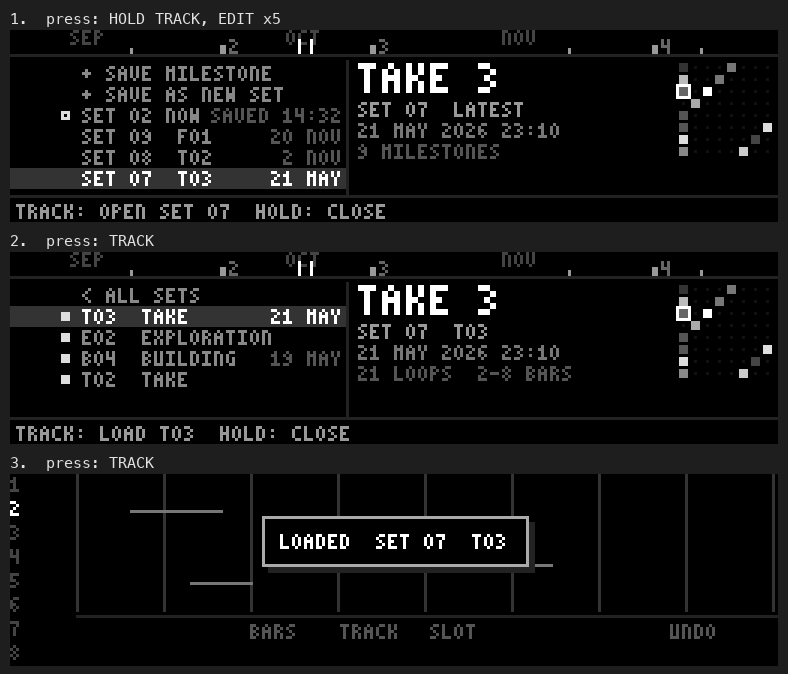
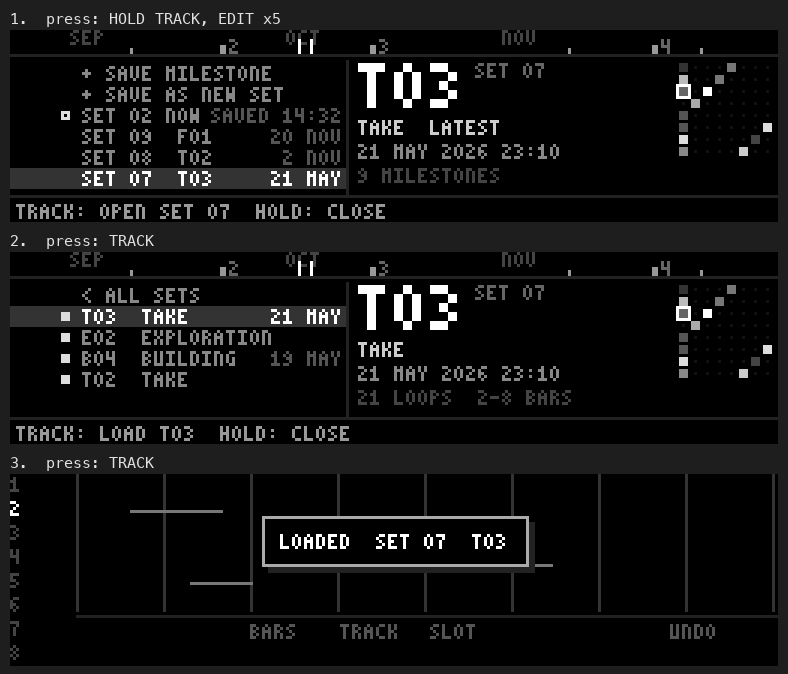
docs(plans): sets browser — a milestone's id leads the detail panel, stage beneath, date third
Owner 2026-11-09: the large stage word was too much; the id (T02) is largest with the set beside it,
the stage as subtitle and the date third. Walkthroughs 3, 4, 5 and 8 re-rendered; the generator is
kept beside the images (sets_mock.py <out dir>).

diff --git a/docs/Plans/images/sets_mock.py b/docs/Plans/images/sets_mock.py
@@ -1,0 +1,339 @@
+# Sets browser walkthroughs as button sequences: each walkthrough is a strip of 256x64 frames (the firmware's 3x5 font,
+# doubled for the large stage) with the button pressed between them.
+import sys
+from PIL import Image, ImageDraw, ImageFont
+
+W, H = 256, 64
+MICRO = {'-': 0x01C0, '+': 0x05D0, '/': 0x12A4, '0': 0x2B6A, '1': 0x2C97, '2': 0x62A7, '3': 0x628E, '4': 0x5BC9,
+         '5': 0x798E, '6': 0x39AA, '7': 0x7292, '8': 0x2AAA, '9': 0x2ACE, 'A': 0x2BED, 'B': 0x6BAE, 'C': 0x3923,
+         'D': 0x6B6E, 'E': 0x79A7, 'F': 0x79A4, 'G': 0x396B, 'H': 0x5BED, 'I': 0x7497, 'J': 0x126A, 'K': 0x5BAD,
+         'L': 0x4927, 'M': 0x5F6D, 'N': 0x6B6D, 'O': 0x2B6A, 'P': 0x6BA4, 'Q': 0x2B6B, 'R': 0x6BAD, 'S': 0x388E,
+         'T': 0x7492, 'U': 0x5B6F, 'V': 0x5B6A, 'W': 0x5BFD, 'X': 0x5AAD, 'Y': 0x5A92, 'Z': 0x72A7,
+         ':': 0x0410, '.': 0x0002, '!': 0x2482, '<': 0x1511, '>': 0x4454, '^': 0x2A80}
+OUT = sys.argv[1]
+STAGES = ['SKETCH', 'BUILDING', 'EXPLORATION', 'TAKE', 'ARRANGEMENT', 'FINAL']
+
+
+class Fb:
+    def __init__(self):
+        self.p = [[0] * W for _ in range(H)]
+
+    def px(self, x, y, v):
+        if 0 <= x < W and 0 <= y < H:
+            self.p[y][x] = v
+
+    def rect(self, x0, y0, x1, y1, v):
+        for y in range(y0, y1 + 1):
+            for x in range(x0, x1 + 1):
+                self.px(x, y, v)
+
+    def frame(self, x0, y0, x1, y1, v):
+        for x in range(x0, x1 + 1):
+            self.px(x, y0, v), self.px(x, y1, v)
+        for y in range(y0, y1 + 1):
+            self.px(x0, y, v), self.px(x1, y, v)
+
+    def hline(self, x0, x1, y, v):
+        for x in range(x0, x1 + 1):
+            self.px(x, y, v)
+
+    def vline(self, x, y0, y1, v):
+        for y in range(y0, y1 + 1):
+            self.px(x, y, v)
+
+    def text(self, s, x, y, v, k=1):
+        for c in s:
+            b = MICRO.get(c, 0)
+            for i in range(15):
+                if b & (1 << (14 - i)):
+                    self.rect(x + (i % 3) * k, y + (i // 3) * k, x + (i % 3) * k + k - 1, y + (i // 3) * k + k - 1, v)
+            x += 4 * k
+        return x
+
+    def rtext(self, s, xr, y, v):
+        self.text(s, xr - len(s) * 4 + 2, y, v)
+
+    def dot(self, x, y, v, ring=False):
+        for dy in (-1, 0, 1):
+            for dx in (-1, 0, 1):
+                if not ring or (dx, dy) != (0, 0):
+                    self.px(x + dx, y + dy, v)
+
+    def image(self):
+        img = Image.new('L', (W, H))
+        img.putdata([v * 17 for row in self.p for v in row])
+        return img
+
+
+def strip(f, sel_x=None):
+    for label, x in [('SEP', 20), ('OCT', 92), ('NOV', 164)]:
+        f.text(label, x, 0, 4)
+    f.hline(0, W - 1, 8, 2)
+    for x, n in [(40, 1), (70, 2), (120, 3), (186, 1), (214, 4), (230, 1)]:
+        if n == 1:
+            f.vline(x, 6, 7, 9)
+        else:
+            f.rect(x, 5, x + 1, 7, 9)
+            f.text(str(n), x + 3, 3, 6)
+    if sel_x is not None:
+        f.vline(sel_x - 2, 3, 7, 15)
+        f.vline(sel_x + 2, 3, 7, 15)
+
+
+def mosaic(f, seed, n, playing):
+    x0, y0 = 223, 11
+    cells = {}
+    for i in range(n):
+        cells[((i * 3 + seed) % 8, (i * 5 + seed * 2) % 8 if i % 3 else 0)] = 3 + (seed * 5 + i * 7) % 13
+    for t in range(8):
+        for s in range(8):
+            v = cells.get((t, s), 0)
+            x, y = x0 + s * 4, y0 + t * 4
+            if v:
+                f.rect(x, y, x + 2, y + 2, v)
+            else:
+                f.px(x + 1, y + 1, 1)
+    t, s = playing
+    f.frame(x0 + s * 4 - 1, y0 + t * 4 - 1, x0 + s * 4 + 3, y0 + t * 4 + 3, 15)
+
+
+def listing(rows, sel, big, lines, hint, sel_x=None, mos=None, lanes=None):
+    """rows: (text, note, mark) with mark None / 'v' / 'c' / ('v', lane) …; the selected row inverted."""
+    f = Fb()
+    strip(f, sel_x)
+    f.vline(112, 10, 54, 2)
+    f.hline(0, W - 1, 55, 2)
+    if lanes:
+        lanes(f)
+    for i, (txt, note, mark) in enumerate(rows[:6]):  # six rows show; the list scrolls with the selection
+        y = 12 + i * 7
+        if i == sel:
+            f.rect(0, y - 1, 111, y + 5, 3)
+        if mark:
+            kind, lane = mark if isinstance(mark, tuple) else (mark, 18)
+            f.dot(lane, y + 2, 13, ring=(kind == 'c'))
+        f.text(txt, 24, y, 15 if i == sel else 8)
+        if note:
+            f.rtext(note, 109, y, 15 if i == sel else 5)
+    if isinstance(big, tuple):  # a milestone: its id largest, the stage as subtitle, the date third (owner 2026-11-09)
+        mid, stage, where, date, info = big
+        x = f.text(mid, 116, 11, 15, 3)
+        f.text(where, x + 3, 11, 6)
+        f.text(stage, 116, 30, 12)
+        f.text(date, 116, 38, 8)
+        f.text(info, 116, 46, 4)
+    else:
+        f.text(big, 116, 11, 15, 2)
+        for k, (s, v) in enumerate(lines):
+            f.text(s, 116, 24 + k * 7, v)
+    if mos:
+        mosaic(f, *mos)
+    f.text(hint, 2, 58, 9)
+    return f.image()
+
+
+def popup(title, highlight, suggested):
+    f = Fb()
+    x0, y0, x1, y1 = 60, 1, 196, 56
+    f.rect(x0 + 3, y0 + 3, x1 + 3, y1 + 3, 2)
+    f.frame(x0, y0, x1, y1, 10)
+    for y in range(y0 + 2, y0 + 9, 2):
+        f.hline(x0 + 1, x1 - 1, y, 5)
+    f.hline(x0, x1, y0 + 9, 10)
+    f.rect(92, y0 + 1, 164, y0 + 8, 0)
+    f.text(title, 95, y0 + 2, 13)
+    for i, lab in enumerate(STAGES):
+        y = y0 + 13 + i * 7
+        if lab == highlight:
+            f.rect(x0 + 2, y - 1, x1 - 2, y + 5, 13)
+        f.text(lab, x0 + 8, y, 0 if lab == highlight else 7)
+        if lab == suggested:
+            f.text('SUGGESTED', x1 - 40, y, 0 if lab == highlight else 5)
+    f.hline(0, W - 1, 59 - 2, 0)
+    f.text('REC/EDIT STAGE  TRACK SAVE  HOLD CANCEL', 2, 58, 9)
+    return f.image()
+
+
+def performance(toast):
+    """The performance screen (sketched: tracks, roll grid, status band) with the confirmation box."""
+    f = Fb()
+    for t in range(8):
+        f.text(str(t + 1), 0, t * 8 + 1, 15 if t == 1 else 4)
+    for x in range(22, 256, 29):
+        f.vline(x, 0, 45, 3)
+    for x0, y, w in [(40, 12, 30), (90, 20, 16), (140, 30, 40), (60, 36, 20)]:
+        f.hline(x0, x0 + w, y, 7)
+    f.hline(22, 255, 47, 2)
+    f.text('BARS', 80, 50, 5), f.text('TRACK', 110, 50, 5), f.text('SLOT', 140, 50, 5), f.text('UNDO', 220, 50, 5)
+    if not toast:
+        return f.image()
+    tw = len(toast) * 4 + 12
+    x0 = (W - tw) // 2
+    f.rect(x0 + 2, 16, x0 + tw + 2, 32, 2)
+    f.rect(x0, 14, x0 + tw, 30, 0)
+    f.frame(x0, 14, x0 + tw, 30, 10)
+    f.text(toast, x0 + 6, 20, 15)
+    return f.image()
+
+
+def sequence(name, steps):
+    """steps: [(buttons pressed to reach this frame or None, frame)] -> one image, frames stacked with their buttons."""
+    scale, cap = 3, 22
+    fw, fh = W * scale, H * scale
+    img = Image.new('L', (fw + 20, len(steps) * (fh + cap + 8) + 8), 30)
+    d = ImageDraw.Draw(img)
+    try:
+        font = ImageFont.truetype('/System/Library/Fonts/Menlo.ttc', 15)
+    except OSError:
+        font = ImageFont.load_default()
+    y = 8
+    for i, (button, frame) in enumerate(steps):
+        d.text((10, y + 2), f'{i + 1}.  ' + (f'press: {button}' if button else 'start'), fill=225, font=font)
+        img.paste(frame.resize((fw, fh), Image.NEAREST), (10, y + cap))
+        y += fh + cap + 8
+    img.save(f'{OUT}/{name}.png')
+
+
+def box(rows, title, hi, sug=None, hint='', note_right=None):
+    """A GEM popup: rows of (text, right text); `hi` highlighted, `sug` marked SUGGESTED."""
+    f = Fb()
+    x0, y0, x1, y1 = 56, 1, 200, 56
+    f.rect(x0 + 3, y0 + 3, x1 + 3, y1 + 3, 2)
+    f.frame(x0, y0, x1, y1, 10)
+    for y in range(y0 + 2, y0 + 9, 2):
+        f.hline(x0 + 1, x1 - 1, y, 5)
+    f.hline(x0, x1, y0 + 9, 10)
+    tw = len(title) * 4 + 6
+    tx = (x0 + x1 - tw) // 2
+    f.rect(tx, y0 + 1, tx + tw, y0 + 8, 0)
+    f.text(title, tx + 3, y0 + 2, 13)
+    for i, (txt, right) in enumerate(rows):
+        y = y0 + 13 + i * 7
+        on = i == hi
+        if on:
+            f.rect(x0 + 2, y - 1, x1 - 2, y + 5, 13)
+        f.text(txt, x0 + 6, y, 0 if on else 7)
+        if right:
+            f.text(right, x0 + 58, y, 0 if on else 9)
+        if i == sug:
+            f.text('SUGGESTED', x1 - 40, y, 0 if on else 5)
+    f.text(hint, 2, 58, 9)
+    return f.image()
+
+
+# SET 02 holds S01, B01-B04, E01-E02, T01-T03: each stage's next number previews in the popup.
+STAGE_ROWS = [('SKETCH', 'S02'), ('BUILDING', 'B05'), ('EXPLORATION', 'E03'), ('TAKE', 'T04'), ('ARRANGEMENT', 'A01'),
+              ('FINAL', 'F01')]
+SAVE_POP = 'REC/EDIT STAGE  TRACK SAVE  HOLD CANCEL'
+
+
+def top(working='SET 02', saved='SAVED 14:32', ret=False, get=False):
+    """Top level: actions, the working set first with its save state, then the other sets, newest first."""
+    rows = [('< RETURN TO PREVIOUS', '', None)] if ret else []
+    rows += [('+ SAVE MILESTONE', '', None), ('+ SAVE AS NEW SET', '', None)]
+    if get:
+        rows += [('+ GET A LOOP', '', None)]
+    rows += [(f'{working} NOW', saved, 'c'), ('SET 09  F01', '20 NOV', None), ('SET 08  T02', '2 NOV', None),
+             ('SET 07  T03', '21 MAY', None), ('SET 06  S01', '3 MAR', None)]
+    return rows
+
+
+def opened(ret=False, base='E02', into='SET 02', saved='SAVED 14:32', get=False):
+    return listing(top(into, saved, ret, get), 1 if ret else 0, 'SAVE',
+                   [(f'INTO {into}', 9), (f'FROM {base}', 6), (saved, 5)], 'TRACK: CHOOSE STAGE  HOLD: CLOSE')
+
+
+# W1 Normal save: Exploration suggested (only launches and mutes since E02), its next id shown -------------------------
+sequence('walk_1_save', [
+    (None, performance(None)),
+    ('HOLD TRACK', opened()),
+    ('TRACK', box(STAGE_ROWS, 'SAVE TO SET 02', 2, 2, SAVE_POP)),
+    ('TRACK', performance('SAVED  SET 02  E03')),
+])
+
+# W2 Another stage: TAKE previews T03; SUGGESTED stays on Exploration ---------------------------------------------------
+sequence('walk_2_other_stage', [
+    ('HOLD TRACK, TRACK', box(STAGE_ROWS, 'SAVE TO SET 02', 2, 2, SAVE_POP)),
+    ('EDIT', box(STAGE_ROWS, 'SAVE TO SET 02', 3, 2, SAVE_POP)),
+    ('TRACK', performance('SAVED  SET 02  T04')),
+])
+
+# W3 Another set in a large library: SET 07's row and its opened view name the same latest milestone, T03 -----------------
+S07 = [('< ALL SETS', '', None), ('T03  TAKE', '21 MAY', 'v'), ('E02  EXPLORATION', '', 'v'), ('B04  BUILDING', '19 MAY', 'v'),
+       ('T02  TAKE', '', 'v')]
+sequence('walk_3_find_set', [
+    ('HOLD TRACK, EDIT x5', listing(top(), 5, ('T03', 'TAKE  LATEST', 'SET 07', '21 MAY 2026 23:10', '9 MILESTONES'), [],
+                                    'TRACK: OPEN SET 07  HOLD: CLOSE', 98, (4, 21, (2, 0)))),
+    ('TRACK', listing(S07, 1, ('T03', 'TAKE', 'SET 07', '21 MAY 2026 23:10', '21 LOOPS  2-8 BARS'), [],
+                      'TRACK: LOAD T03  HOLD: CLOSE', 98, (4, 21, (2, 0)))),
+    ('TRACK', performance('LOADED  SET 07  T03')),
+])
+
+# W4 Return to Take 2 in a long, interleaved history ------------------------------------------------------------------
+S03 = [('< ALL SETS', '', None), ('F01  FINAL', '20 NOV', 'v'), ('A02  ARRANGEMENT', '', 'v'), ('T04  TAKE', '18 NOV', 'v'),
+       ('A01  ARRANGEMENT', '', 'v'), ('T02  TAKE', '12 NOV', 'v')]
+lane = lambda f: f.vline(18, 21, 49, 6)
+sequence('walk_4_long_history', [
+    ('HOLD TRACK, EDIT x9, TRACK', listing(S03, 1, ('F01', 'FINAL', 'SET 03', '20 NOV 2026 22:41', '23 LOOPS  1-16 BARS'), [],
+                                           'TRACK: LOAD F01  HOLD: CLOSE', 186, (3, 23, (0, 2)), lane)),
+    ('EDIT x4', listing(S03, 5, ('T02', 'TAKE', 'SET 03', '12 NOV 2026 21:03', '19 LOOPS  1-8 BARS'), [],
+                        'TRACK: LOAD T02  HOLD: CLOSE', 120, (5, 19, (3, 1)), lane)),
+    ('TRACK', performance('LOADED  SET 03  T02')),
+])
+
+# W5 Continue from Take 2 and save: A01 forks from T02; T03 and B04 stay on their lane ------------------------------------
+A, B = 12, 20
+before = [('< ALL SETS', '', None), ('SET 02 NOW', 'SAVED 14:40', 'c'), ('T03  TAKE', '6 NOV', 'v'), ('B04  BUILDING', '', 'v'),
+          ('T02  TAKE', '2 NOV', 'v')]
+after = [('< ALL SETS', '', None), ('SET 02 NOW', 'SAVED 14:52', ('c', B)), ('A01  ARRANGEMENT', '8 NOV', ('v', B)),
+         ('T03  TAKE', '6 NOV', ('v', A)), ('B04  BUILDING', '', ('v', A)), ('T02  TAKE', '2 NOV', ('v', A))]
+fork_lanes = lambda f: (f.vline(B, 21, 49, 6), f.hline(A, B, 49, 6), f.vline(A, 35, 49, 6))
+sequence('walk_5_fork', [
+    ('HOLD TRACK, EDIT x2, TRACK, EDIT x2', listing(before, 4, ('T02', 'TAKE', 'SET 02', '2 NOV 2026 10:12', '9 LOOPS  4 BARS'),
+                                                    [], 'TRACK: LOAD T02  HOLD: CLOSE', 70, (1, 9, (0, 0)),
+                                                    lambda f: f.vline(18, 21, 42, 6))),
+    ('TRACK   (then: arrange)', performance('LOADED  SET 02  T02')),
+    ('HOLD TRACK, TRACK, EDIT x2', box(STAGE_ROWS, 'SAVE TO SET 02', 4, 2, SAVE_POP)),
+    ('TRACK', performance('SAVED  SET 02  A01')),
+    ('HOLD TRACK, EDIT x2, TRACK', listing(after, 2, ('A01', 'ARRANGEMENT  FROM T02', 'SET 02', '8 NOV 2026 14:20',
+                                                      '18 LOOPS  4-8 BARS'), [], 'TRACK: LOAD A01  HOLD: CLOSE',
+                                           230, (2, 18, (1, 1)), fork_lanes)),
+])
+
+# W6 Return after an accidental load: one step up, one press; a save would keep this return point ---------------------
+sequence('walk_6_return', [
+    (None, performance('LOADED  SET 01  T03')),
+    ('HOLD TRACK', listing(top('SET 01', 'SAVED 14:58', True), 1, 'SAVE',
+                           [('INTO SET 01', 9), ('FROM T03', 6), ('SAVED 14:58', 5)], 'TRACK: CHOOSE STAGE  HOLD: CLOSE')),
+    ('RECORD', listing(top('SET 01', 'SAVED 14:58', True), 0, 'RETURN',
+                       [('TO SET 02 AS LEFT 14:57', 9), ('NOT A MILESTONE', 5)], 'TRACK: RETURN  HOLD: CLOSE')),
+    ('TRACK', performance('RETURNED  SET 02  14:57')),
+])
+
+# W7 Failures keep the screen and selection ---------------------------------------------------------------------------
+fail = lambda what, why, sel, rows: listing(rows, sel, what, [(why, 9), ('NOTHING CHANGED', 9)], 'TRACK: TRY AGAIN  HOLD: CLOSE')
+sequence('walk_7_failures', [
+    ('HOLD TRACK, TRACK, TRACK', fail('SAVE FAILED', 'CARD WRITE ERROR', 0, top(saved='UNSAVED'))),
+    ('TRACK  (works)', performance('SAVED  SET 02  E03')),
+    ('HOLD TRACK, EDIT x4, TRACK, TRACK', fail('LOAD FAILED', 'CARD READ ERROR IN T02', 1,
+                                               [('< ALL SETS', '', None), ('T02  TAKE', '2 NOV', 'v'), ('B01  BUILDING', '', 'v')])),
+    ('HOLD TRACK   (SET 02 unchanged)', performance(None)),
+])
+
+# W8 (planned extension) Working on A01: get one loop from T02 into the workspace, keep arranging ----------------------
+loops_t02 = [('< MILESTONES', '', None), ('TRK 1  SLOT 1', '4 BARS', None), ('TRK 1  SLOT 3', '2 BARS', None),
+             ('TRK 2  SLOT 1', '8 BARS', None), ('TRK 3  SLOT 2', '4 BARS', None)]
+milestones_02 = [('< ALL SETS', '', None), ('A01  ARRANGEMENT', '8 NOV', 'v'), ('T03  TAKE', '6 NOV', 'v'), ('B04  BUILDING', '', 'v'),
+                 ('T02  TAKE', '2 NOV', 'v')]
+dest = [('SLOT 1', 'FILLED'), ('SLOT 2', 'FILLED'), ('SLOT 3', 'FILLED'), ('SLOT 4', 'EMPTY'), ('SLOT 5', 'EMPTY')]
+sequence('walk_8_get_loop', [
+    ('HOLD TRACK, EDIT x2', listing(top(get=True), 2, 'GET LOOP', [('FROM ANY MILESTONE', 9), ('INTO THIS WORKSPACE', 6),
+                                                                    ('NOTHING LOADS', 5)], 'TRACK: CHOOSE SOURCE  HOLD: CLOSE')),
+    ('TRACK, EDIT x3', listing(milestones_02, 4, ('T02', 'TAKE', 'SET 02', '2 NOV 2026 10:12', '9 LOOPS'), [],
+                               'TRACK: OPEN LOOPS OF T02  HOLD: CLOSE', 70, (1, 9, (0, 0)), lambda f: f.vline(18, 21, 42, 6))),
+    ('TRACK, EDIT x2', listing(loops_t02, 2, 'LOOP 1-3', [('T02  TRACK 1  SLOT 3', 9), ('2 BARS  14 NOTES', 7)],
+                               'TRACK: TAKE THIS LOOP  HOLD: CLOSE', None, (1, 9, (0, 2)))),
+    ('TRACK, EDIT x3', box(dest, 'INTO TRACK 2', 3, None, 'REC/EDIT SLOT  TRACK COPY  HOLD CANCEL')),
+    ('TRACK', performance('COPIED  T02 1-3  TO 2-4')),
+])
+print('ok')

diff --git a/docs/Plans/engine_sets_browser_proposal.md b/docs/Plans/engine_sets_browser_proposal.md
@@ -20,7 +20,8 @@ tempo and surface state — described by one creative stage. Stages are unordere
 
 * Numbers count per stage within a set: saving B04 does not use a Take number. The set heading is `SET 02`, never
   `S02`, so it is not mistaken for Sketch 2.
-* The browser speaks in milestones: rows read `T02  TAKE`, the details say `TAKE 2`, messages say
+* The browser speaks in milestones: rows read `T02  TAKE`, the details lead with the id `T02` (largest), the stage
+  `TAKE` beneath it and the date third (owner 2026-11-09), messages say
   `SAVED  SET 02  T04` — "return to Take 2", "continue Arrangement 1". Dates, the timeline and the mosaic support.
 * Nothing is converted or renamed. Save T02, keep working, save A01 (parent T02): T02 stays, loadable and a source of
   loops; A01 is another snapshot.
@@ -69,8 +70,8 @@ The suggestion — one stage, by one rule, never a milestone by itself and never
 |---|---|---|
 | Top level, on `+ SAVE MILESTONE` | `SAVE`, `INTO SET 02`, `FROM E02`, the save state | `TRACK: CHOOSE STAGE  HOLD: CLOSE` |
 | Save popup | six stages with their next ids, highlight, `SUGGESTED` | `REC/EDIT STAGE  TRACK SAVE  HOLD CANCEL` |
-| Top level, on a set | `TAKE 3` (its latest), `SET 07 LATEST`, date, count, mosaic | `TRACK: OPEN SET 07  HOLD: CLOSE` |
-| Inside a set, on a milestone | `TAKE 2`, `SET 03  T02`, the timestamp once, loops / bars, mosaic | `TRACK: LOAD T02  HOLD: CLOSE` |
+| Top level, on a set | `T03` large (its latest) with `SET 07` beside, `TAKE  LATEST`, date, count, mosaic | `TRACK: OPEN SET 07  HOLD: CLOSE` |
+| Inside a set, on a milestone | `T02` large with `SET 03` beside, `TAKE`, the timestamp once, loops / bars, mosaic | `TRACK: LOAD T02  HOLD: CLOSE` |
 | `< RETURN TO PREVIOUS` | `RETURN`, `TO SET 02 AS LEFT 14:57`, `NOT A MILESTONE` | `TRACK: RETURN  HOLD: CLOSE` |
 | A failure | what, why, `NOTHING CHANGED` | `TRACK: TRY AGAIN  HOLD: CLOSE` |
 
